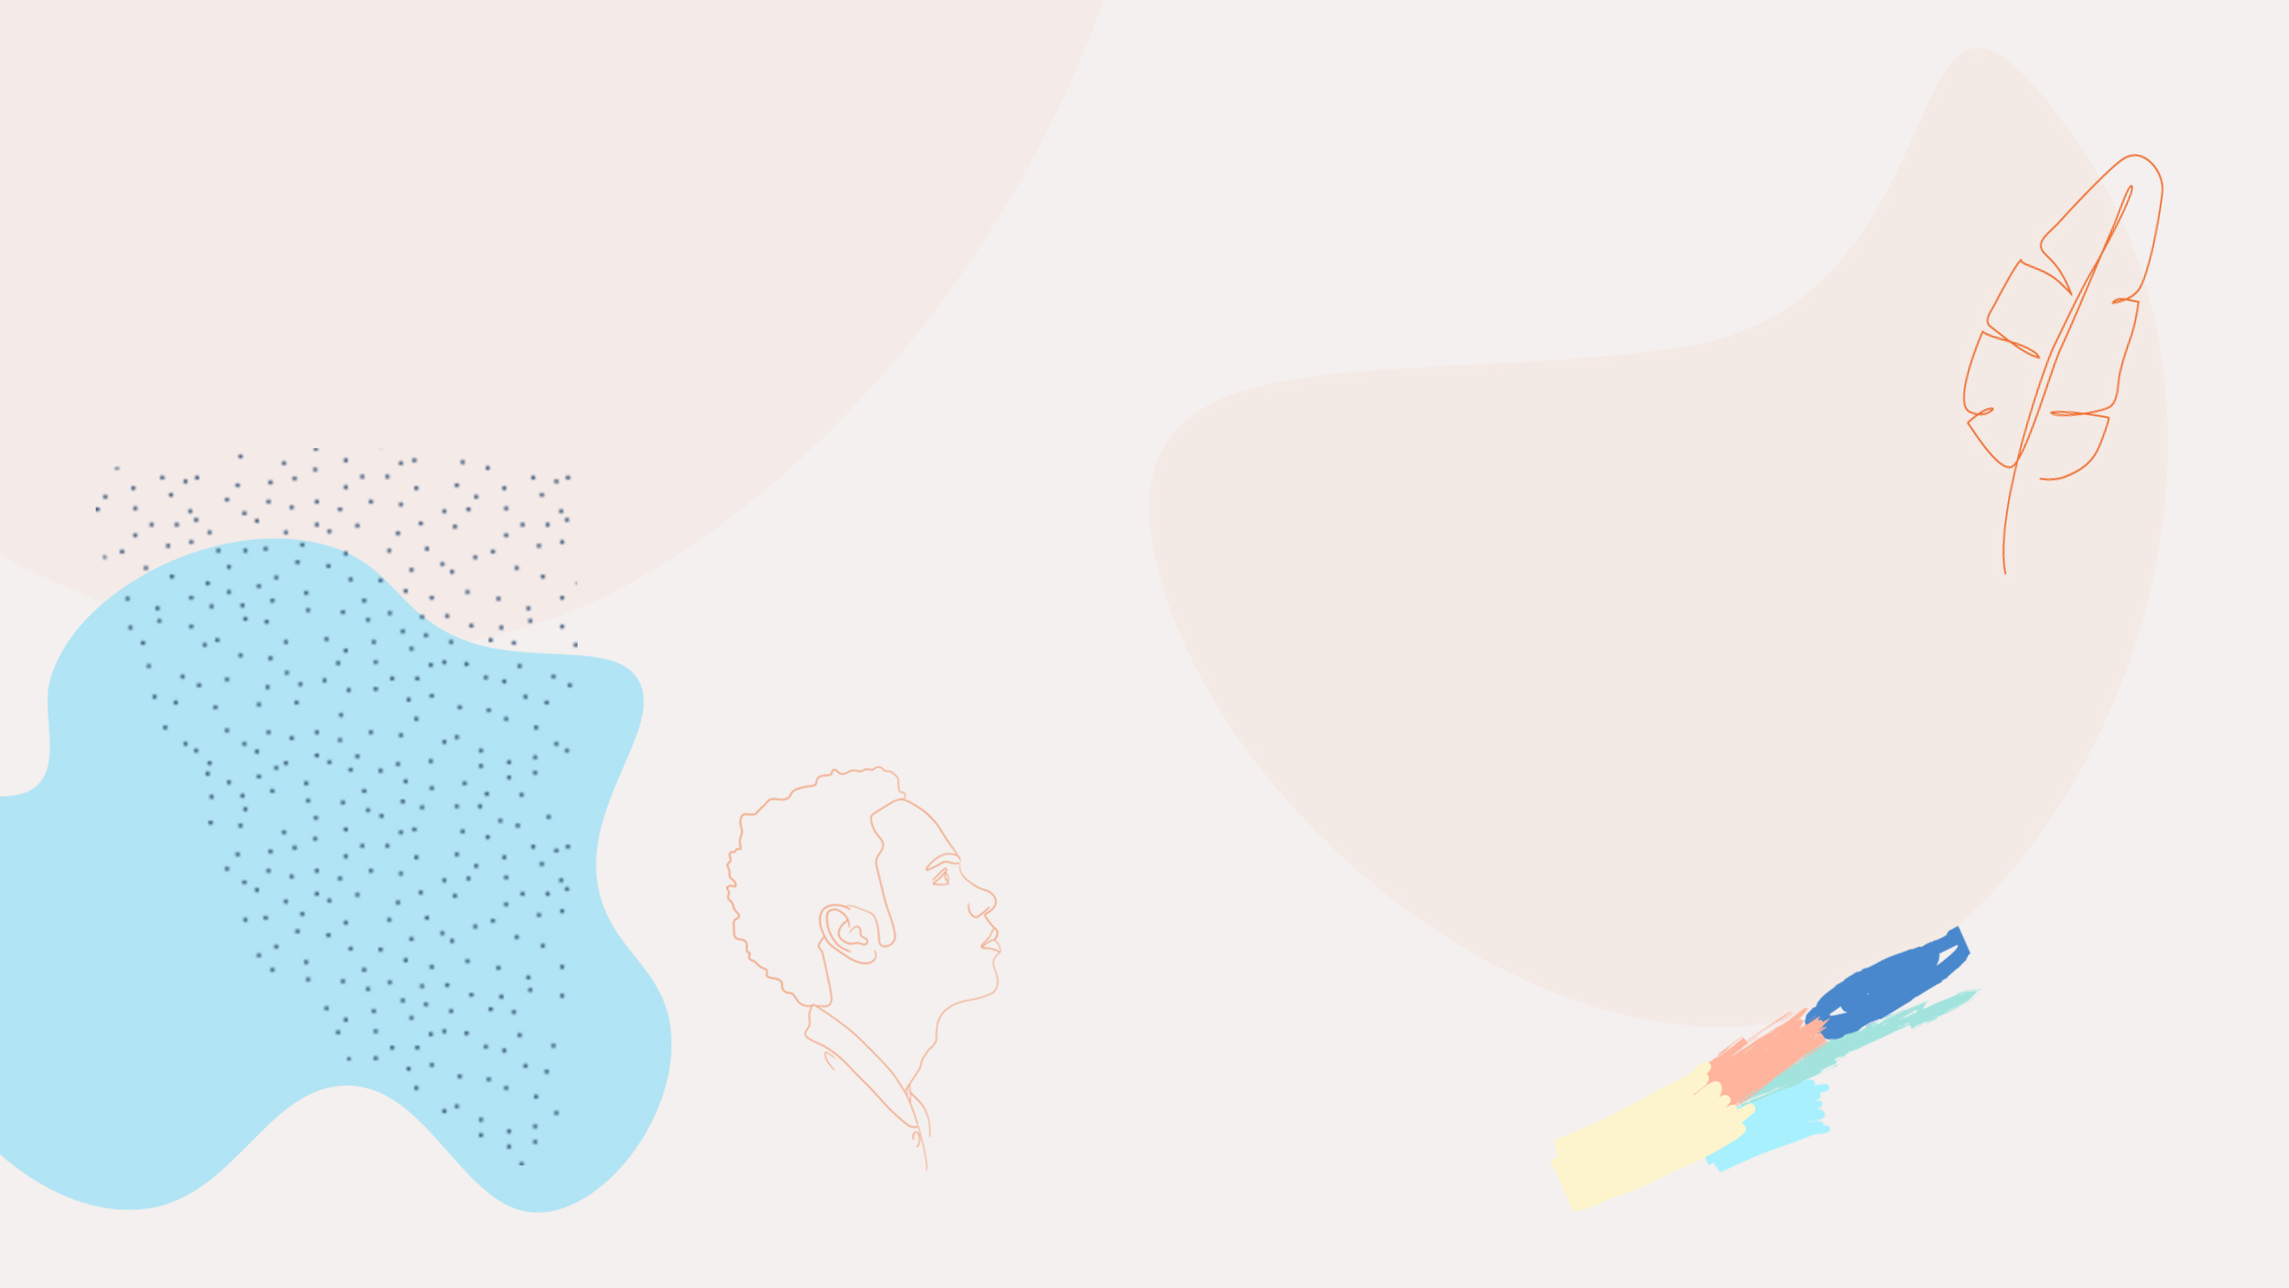
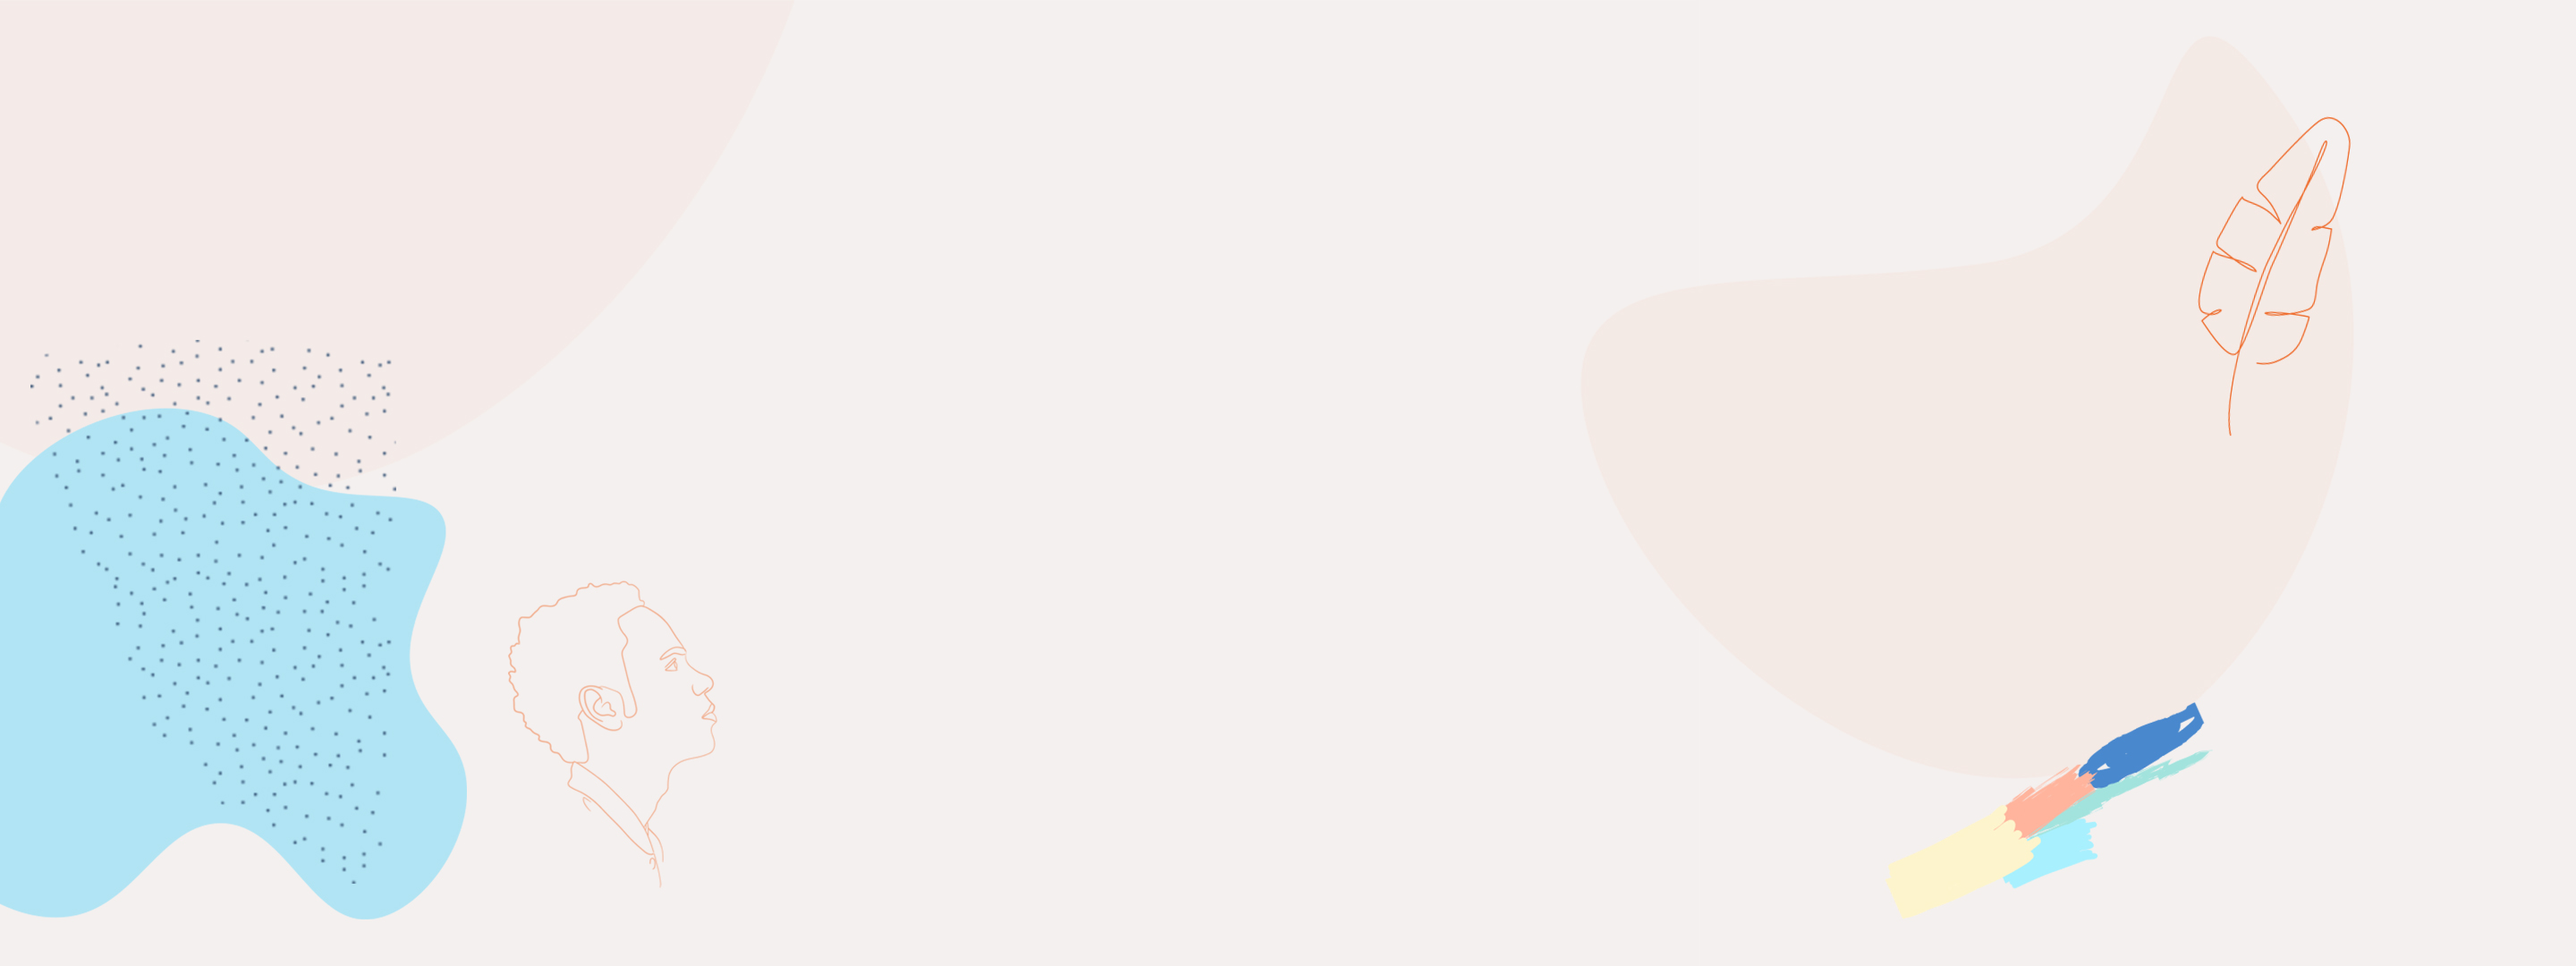
aggiunta hero style

diff --git a/src/components/HeroComponent.vue b/src/components/HeroComponent.vue
@@ -1,23 +1,35 @@
 <template>
   <main>
-    <div class="container-fluid hero">
-      <div class="row">
+    <div class="container-fluid hero d-flex justify-content-center">
+      <div class="row align-items-center">
         <!--Immagini sx-->
         <div class="col-4 left-artist-img">
-          <img src="@/assets/artist-hero-image-01.jpg" alt="artist-img" />
-          <img src="@/assets/artist-hero-image-02.jpg" alt="artist-img-2" />
+          <img
+            id="artwork_1"
+            src="@/assets/artist-hero-image-01.jpg"
+            alt="artist-img"
+          />
+          <img
+            id="artwork_2"
+            src="@/assets/artist-hero-image-02.jpg"
+            alt="artist-img-2"
+          />
         </div>
 
         <!--Testo centrale-->
         <div class="col-4 hero-txt p-5">
-          <h2>Hello, I'm Matin</h2>
+          <h3>Hello, I'm Matin</h3>
           <h2>Artist Coaching And Mentoring Might Be for You</h2>
           <button>Get started today</button>
         </div>
 
         <!--Immagini dx-->
         <div class="col-4 left-artist-img">
-          <img src="@/assets/artist-hero-image-04.jpg" alt="artist-photo" />
+          <img
+            id="artist_photo"
+            src="@/assets/artist-hero-image-04-235x300.jpg"
+            alt="artist-photo"
+          />
         </div>
       </div>
     </div>
@@ -34,5 +46,28 @@ export default {
 @import "@/style/general";
 .hero {
   background-image: url("@/assets/hero-img.jpg");
+  height: 62rem;
+  background-size: cover;
+  position: relative;
+  #artwork_1 {
+    position: absolute;
+    top: 35rem;
+    left: 18rem;
+    z-index: 1;
+  }
+  #artwork_2 {
+    position: absolute;
+    top: 13rem;
+    left: 29rem;
+  }
+  #artist_photo {
+    position: absolute;
+    top: 20rem;
+    left: 110rem;
+    width: 25rem;
+  }
+  h3 {
+    color: $ice-cold;
+  }
 }
 </style>

diff --git a/src/style/general.scss b/src/style/general.scss
@@ -5,6 +5,8 @@
 //variables
 $color-silver: #bcbcbc;
 $hint-of-red: #f4f0ef;
+$ice-cold: #b1e4f4;
+
 * {
   font-family: "Montserrat", sans-serif;
 }
